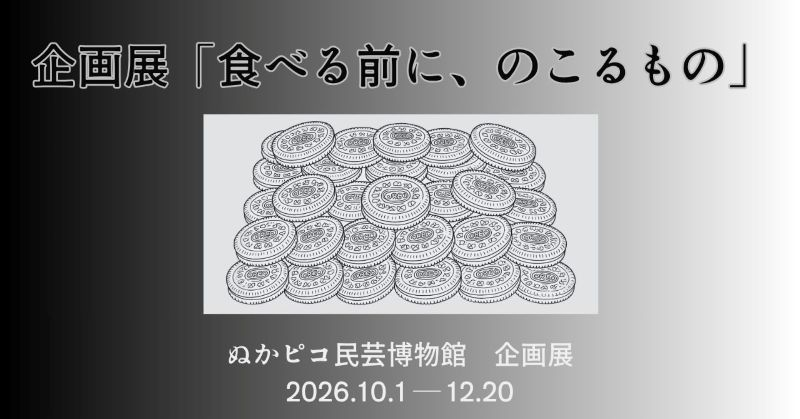
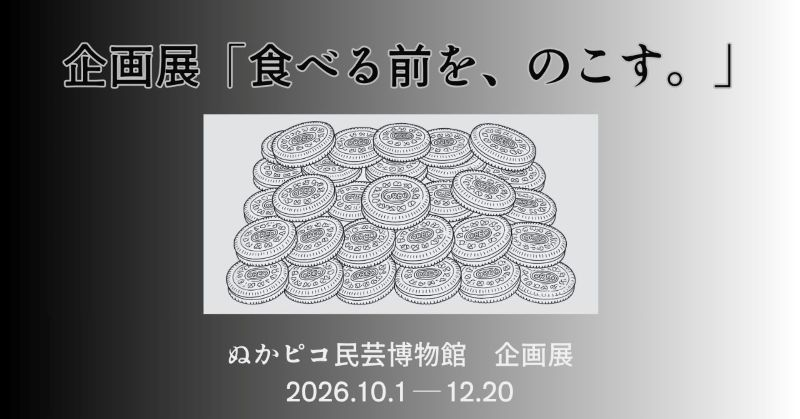
画像差し替え、問い合わせ電話番号追加

Changed region(s): [[0.0312, 0.0931, 0.9375, 0.2172]]

diff --git a/facilities/kikakuten.html b/facilities/kikakuten.html
@@ -44,6 +44,11 @@
             <th>入館料</th>
             <td>常設展の入館料に含む(別途料金なし)</td>
           </tr>
+          <tr>
+            <th>お問い合わせ電話番号</th>
+            <td>ぬぬ-ぬかピコ-7930(なくさない)</td>
+          </tr>
+
         </table>
 
         <h2>展示品紹介</h2>
